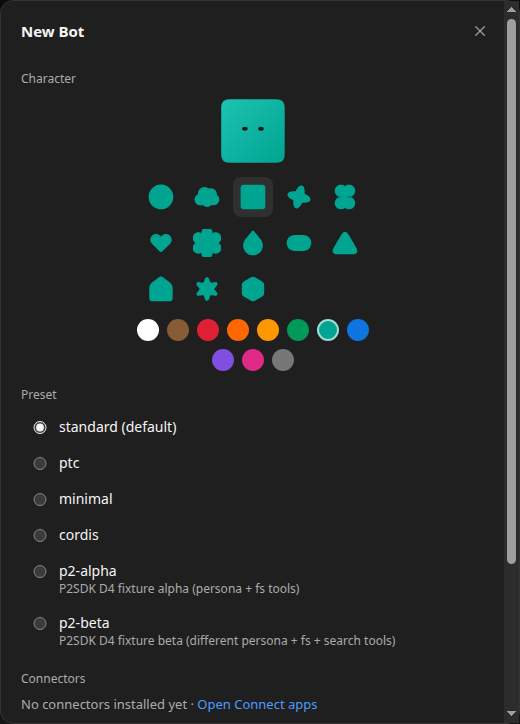
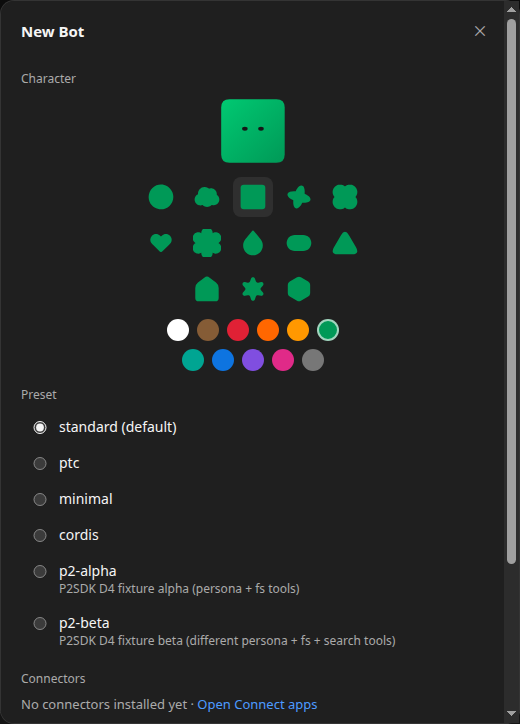
docs(receipt): T24b 回执回仓（形状格 5/5/3 返修完成，复验中）

Changed region(s): [[0.2462, 0.1215, 0.7077, 0.5166], [0.6462, 0.2431, 0.7077, 0.3646]]

diff --git a/work/tickets/receipts/T24.md b/work/tickets/receipts/T24.md
@@ -27,5 +27,13 @@
 3. **色板两行 6+5** vs ref 单行：CSS 收紧可一行——T30 一起定（0.79.3 版式重排时）
 4. resolvePersonaShape 认 15（8∪13），0.79.3 的完整集是 24——差 9 个（pebble 等在 picker 外但资产在）；将来 avatar-editor 上传自定义时再对齐
 
+
 ## 经理终验（2026-11-07，HEAD b4dc3cd0）：返修 → T24b
 命令全部复现通过；失败一条：形状实排 4/4/4/1（CSS max-width 220 < 224），回执与 review 处置的「5/5/3 ✓」未经截图核实。存疑项判定见工单末。
+
+## T24b 回执（返修）
+- 先红：e2e ① 新排列断言 `实排=4/4/4/1` ✗（b4dc3cd0 的 flex max-width 220px < 5×40+4×6=224px）
+- 修：`max-width: calc(5 * 40px + 4 * 6px)` 一处；① 复绿 + 全文件 5 passed
+- 排列断言（进 ① 常驻）：13 钮按 y 分组 = [5,5,3]；末行中心与前两行中心差 <4px
+- 截图六态重出 + cmp 拼版右半改裁 ref 形象区（crop(700,500,2300,1400)——原整幅右半只有侧栏）
+- HEAD：30109977
